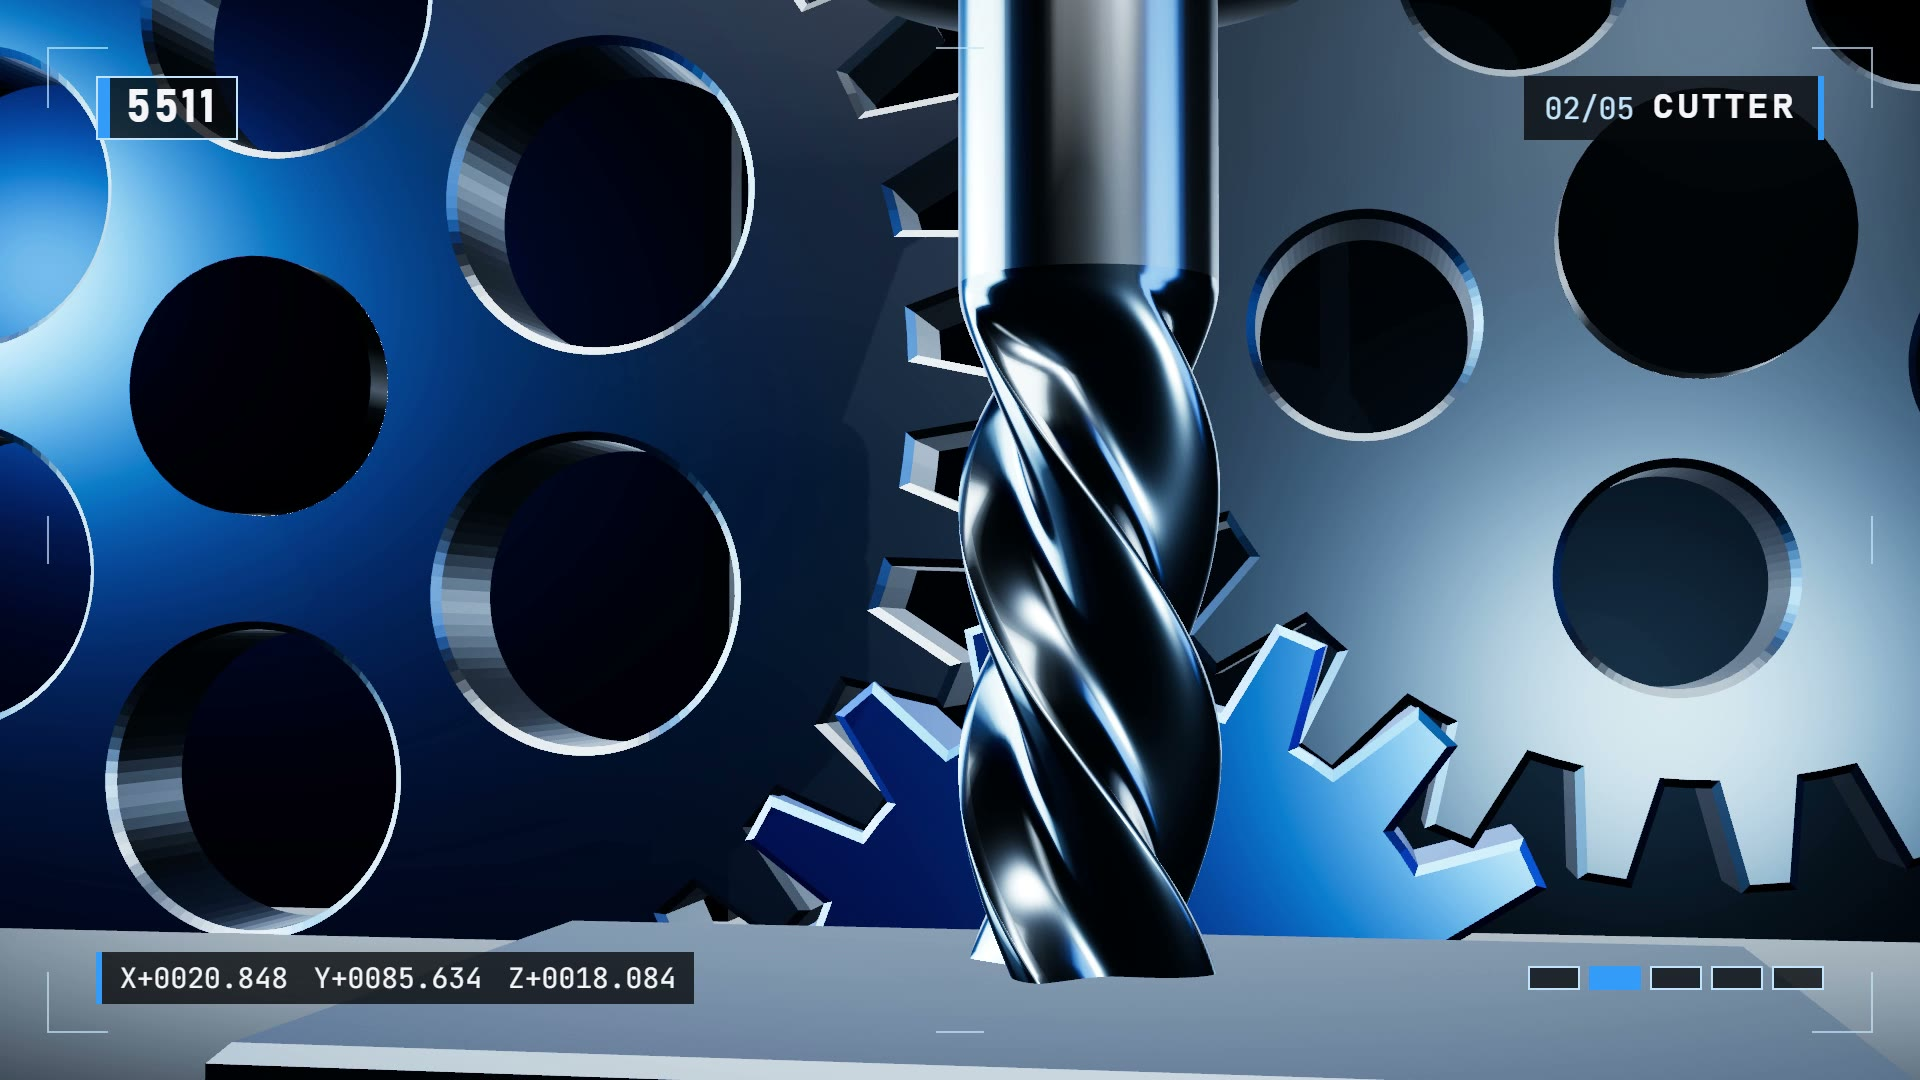
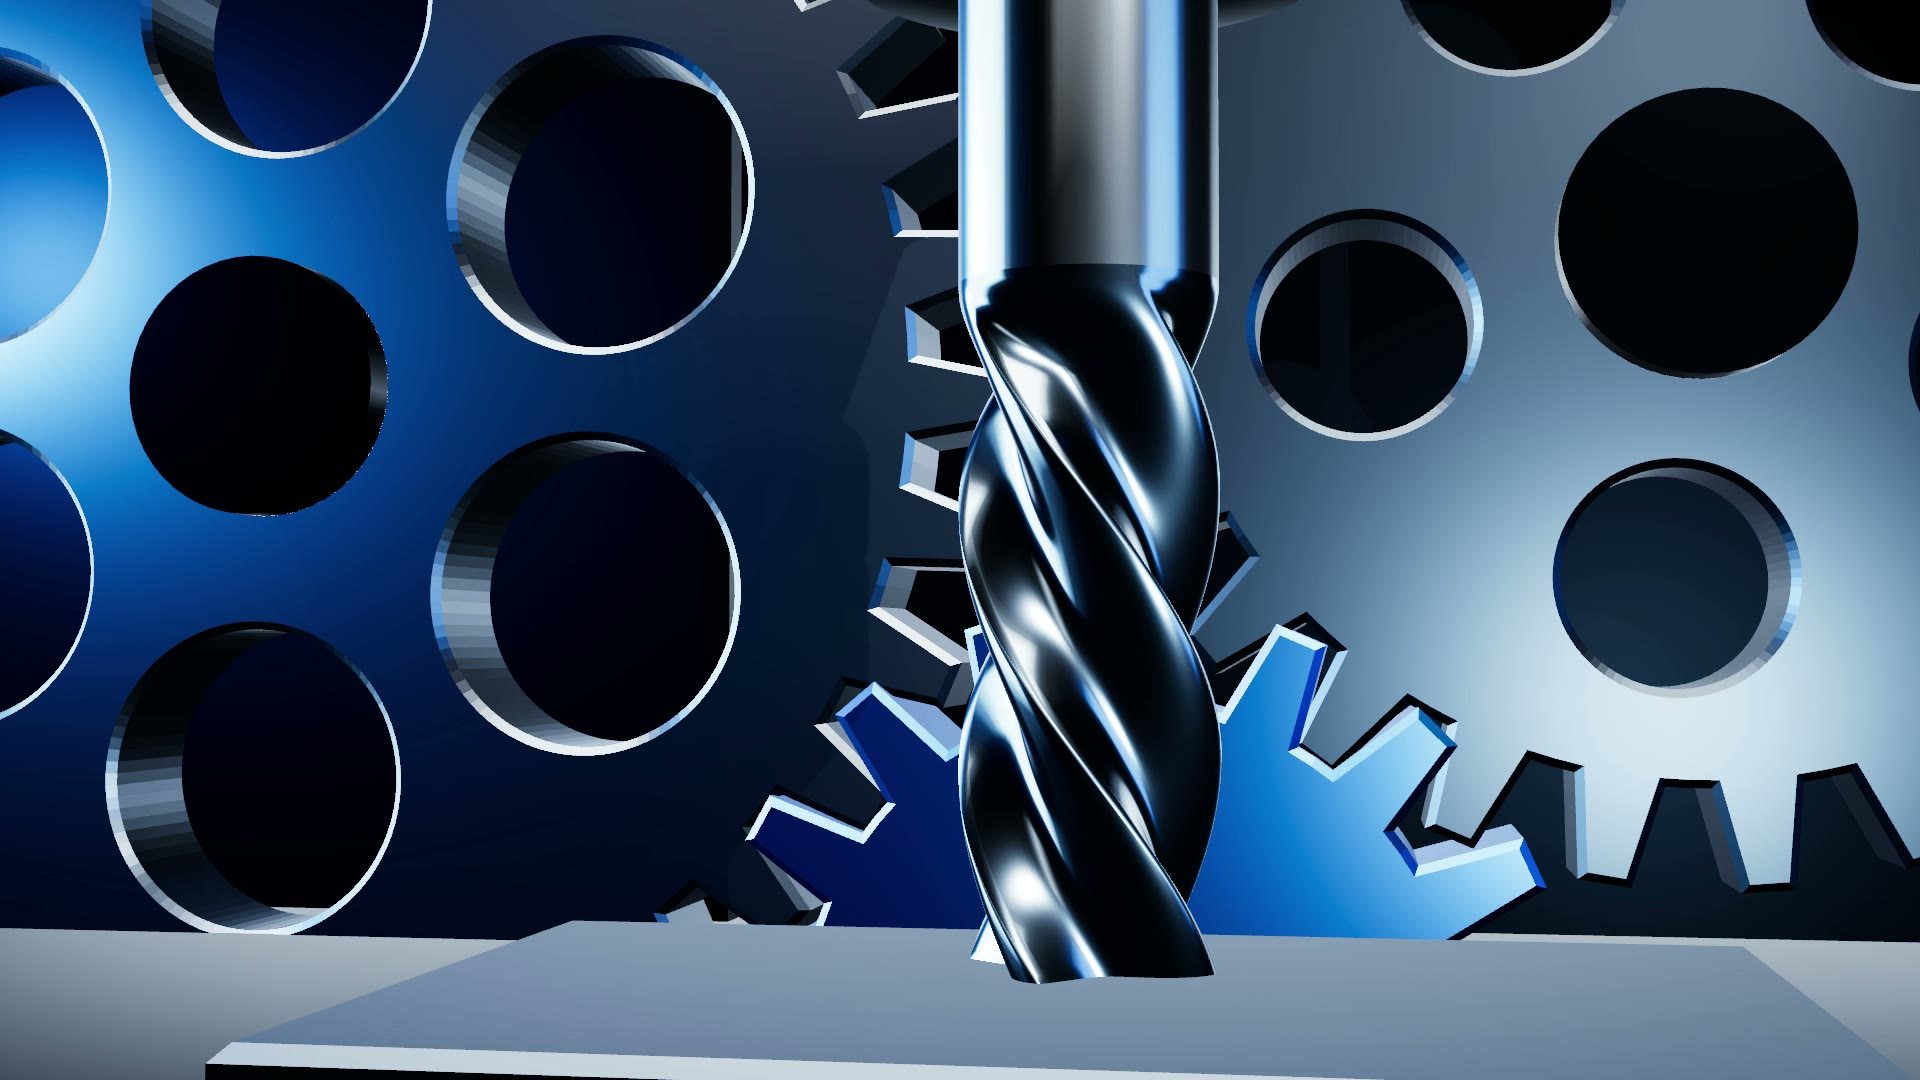
Play hero as a clean plate behind the landing, landing shade widened for readable text; contract: tnc:inspect and Serbian; open placeholder for the screen form

diff --git a/media/landing-hyperframes/index.html b/media/landing-hyperframes/index.html
@@ -1,5 +1,5 @@
 <!doctype html>
-<html lang="en">
+<html lang="en" data-composition-variables='[{"id":"hud","type":"boolean","label":"Overlay (badge, shot labels, read-out)","default":false}]'>
   <head>
     <meta charset="UTF-8" />
     <meta name="viewport" content="width=1920, height=1080" />
@@ -14,6 +14,8 @@
       html, body { width: 1920px; height: 1080px; overflow: hidden; background: var(--gc-film-ground); }
       #root { position: relative; width: 1920px; height: 1080px; overflow: hidden; background: var(--gc-film-ground); }
       #film { position: absolute; left: 0; top: 0; width: 1920px; height: 1080px; }
+      /* clean plate (the default): the overlay stays mounted but is not painted */
+      #root.plate #hud { opacity: 0 !important; }
     </style>
   </head>
   <body>
@@ -32,6 +34,10 @@
         window.__filmReady = resolve;
         window.__filmFailed = reject;
       });
+
+      // The landing page uses the clean plate; the variable "hud" (render.mjs --hud) shows the overlay.
+      const vars = (window.__hyperframes && window.__hyperframes.getVariables && window.__hyperframes.getVariables()) || {};
+      if (vars.hud !== true) document.getElementById("root").classList.add("plate");
 
       // The root holds only the film canvas and the overlay; its timeline carries the length.
       const tl = gsap.timeline({ paused: true });

diff --git a/web/src/play/play.css b/web/src/play/play.css
@@ -24,6 +24,7 @@
 .land-grid, .land-poster, .land-video { position: absolute; inset: 0; width: 100%; height: 100%; object-fit: cover; }
 .land-video { opacity: 0; transition: opacity var(--gc-dur-slow) var(--gc-ease); }
 .land[data-film='ok'] .land-video { opacity: 0.72; }
+.land[data-film='ok'] .land-poster { opacity: 0; }
 .lg-fine { stroke: var(--gc-line); stroke-width: 1; }
 .lg-major { stroke: color-mix(in srgb, var(--gc-line-strong) 45%, transparent); stroke-width: 1.5; }
 .lg-draw { fill: none; stroke: color-mix(in srgb, var(--gc-accent) 55%, transparent); stroke-width: 1.5; }
@@ -35,7 +36,7 @@
 @keyframes lg-feed { to { stroke-dashoffset: -36; } }
 .land-shade { position: absolute; inset: 0; background: color-mix(in srgb, var(--gc-canvas) 38%, transparent); }
 /* a flat darker panel behind the headline: a hard edge, like a guard plate */
-.land-shade::before { content: ''; position: absolute; inset: 0 44% 0 0; background: color-mix(in srgb, var(--gc-canvas) 62%, transparent); border-right: var(--rule); }
+.land-shade::before { content: ''; position: absolute; inset: 0 40% 0 0; background: color-mix(in srgb, var(--gc-canvas) 67%, transparent); border-right: var(--rule); }
 
 .land-frame {
   position: relative;

diff --git a/media/landing-hyperframes/README.md b/media/landing-hyperframes/README.md
@@ -11,7 +11,9 @@ node render.mjs
 
 That one command fills the local assets from `node_modules`, runs `hyperframes check`, renders, encodes with
 FFmpeg, copies the four files to `web/public/play/` and six proof frames to `artifacts/hero/`.
-From the repository root the same thing is `npm run render:hero`. Needs Node 22+, FFmpeg and ffprobe.
+From the repository root the same thing is `npm run render:hero`.
+The delivered film is the clean plate, without the overlay, because the landing page sets its own text on it;
+`node render.mjs --hud` renders the version with the overlay to `out/hero-film.mp4` (not shipped). Needs Node 22+, FFmpeg and ffprobe.
 Nothing is uploaded: no cloud render, no account, no publish, telemetry off.
 
 To look while editing: `npx hyperframes preview` (the editor) or
@@ -22,7 +24,7 @@ To look while editing: `npx hyperframes preview` (the editor) or
 | File | What |
 |---|---|
 | `index.html` | the root composition: the film canvas and the overlay, 15 s |
-| `compositions/hud.html` | overlay: frame marks, the 5511 badge, one label per shot, read-out |
+| `compositions/hud.html` | overlay: frame marks, the 5511 badge, one label per shot, read-out; painted only when the variable `hud` is true |
 | `tokens.css` | the overlay's colours and faces |
 | `assets/film/main.js` | shot times (`CUTS`), the wipe between shots, the seek handler |
 | `assets/film/scene-grid.js` | shot 1, mechanical grid reveal |

diff --git a/docs/BUILD_STATE.md b/docs/BUILD_STATE.md
@@ -36,11 +36,12 @@ app -> sim
 | `tnc:open` | `{name, text, machine, tools?}` | v1: open / replace a program |
 | `tnc:get` | `{id}` | v1: ask for the program on screen |
 | `tnc:hello` | `{v:2}` | handshake; answered with `tnc:ready` |
-| `tnc:present` | `{lang?:'sv'|'en', skin?:'426'|'430', env?:'cold-steel'|'workshop-night', quality?:'low'|'medium'|'high', motion?:'full'|'reduced', sound?:boolean}` | presentation only |
+| `tnc:present` | `{lang?:'sv'|'en'|'sr', skin?:'426'|'430', env?:'cold-steel'|'workshop-night', quality?:'low'|'medium'|'high', motion?:'full'|'reduced', sound?:boolean}` | presentation only |
 | `tnc:machine` | `{machine:'426'|'430'}` | select the machine profile |
 | `tnc:exec` | `{cmd:'start'|'stop'|'step'|'reset'}` | uses the simulator's own run controls |
 | `tnc:camera` | `{view:'orbit'|'pov'|'tool'|'part'|'plan'}` | camera preset |
 | `tnc:lock` | `{locked:boolean, reason?:string}` | Play interlock: NC start refused with `reason` while locked |
+| `tnc:inspect` | `{panel:'compare'|'diag'|'ref'|'progs'}` | open the inspector on that tab |
 | `tnc:tools:get` | `{id}` | ask for the tool table |
 | `tnc:tools:set` | `{tools:[{t,name?,l,r,...}]}` | replace the tool table (same schema as `tnc:open` tools) |
 

diff --git a/CONTINUE.md b/CONTINUE.md
@@ -93,3 +93,4 @@ FK solver · horizontal spindle (TOOL CALL X / Y) · cylinder surface 27 / 28 (r
 | K1 | ui.js, dialogs.js | keypad details not in the manual (END takes the entry, I and −/+ toggles, CE twice, PC-keyboard bindings) |
 | AI1 | part.js | engraving font is the simulator's own |
 | AI2 | part.js compare | feature edges within half a grid cell not counted; Z tolerance 0.1 mm |
+| SF1 | dialogs.js, ui.js screen form | rapid feed shown as `F MAX` (stored `FMAX`): the 426/430 manual prints both spellings (p. 155 `7 LP PR+60 PA+180 R0 F MAX`); not confirmed from a screen photo. Decimal character follows MP 7280 (p. 457: 0 comma, 1 point), default here = by interface language; the control's factory default is not in the manual |
